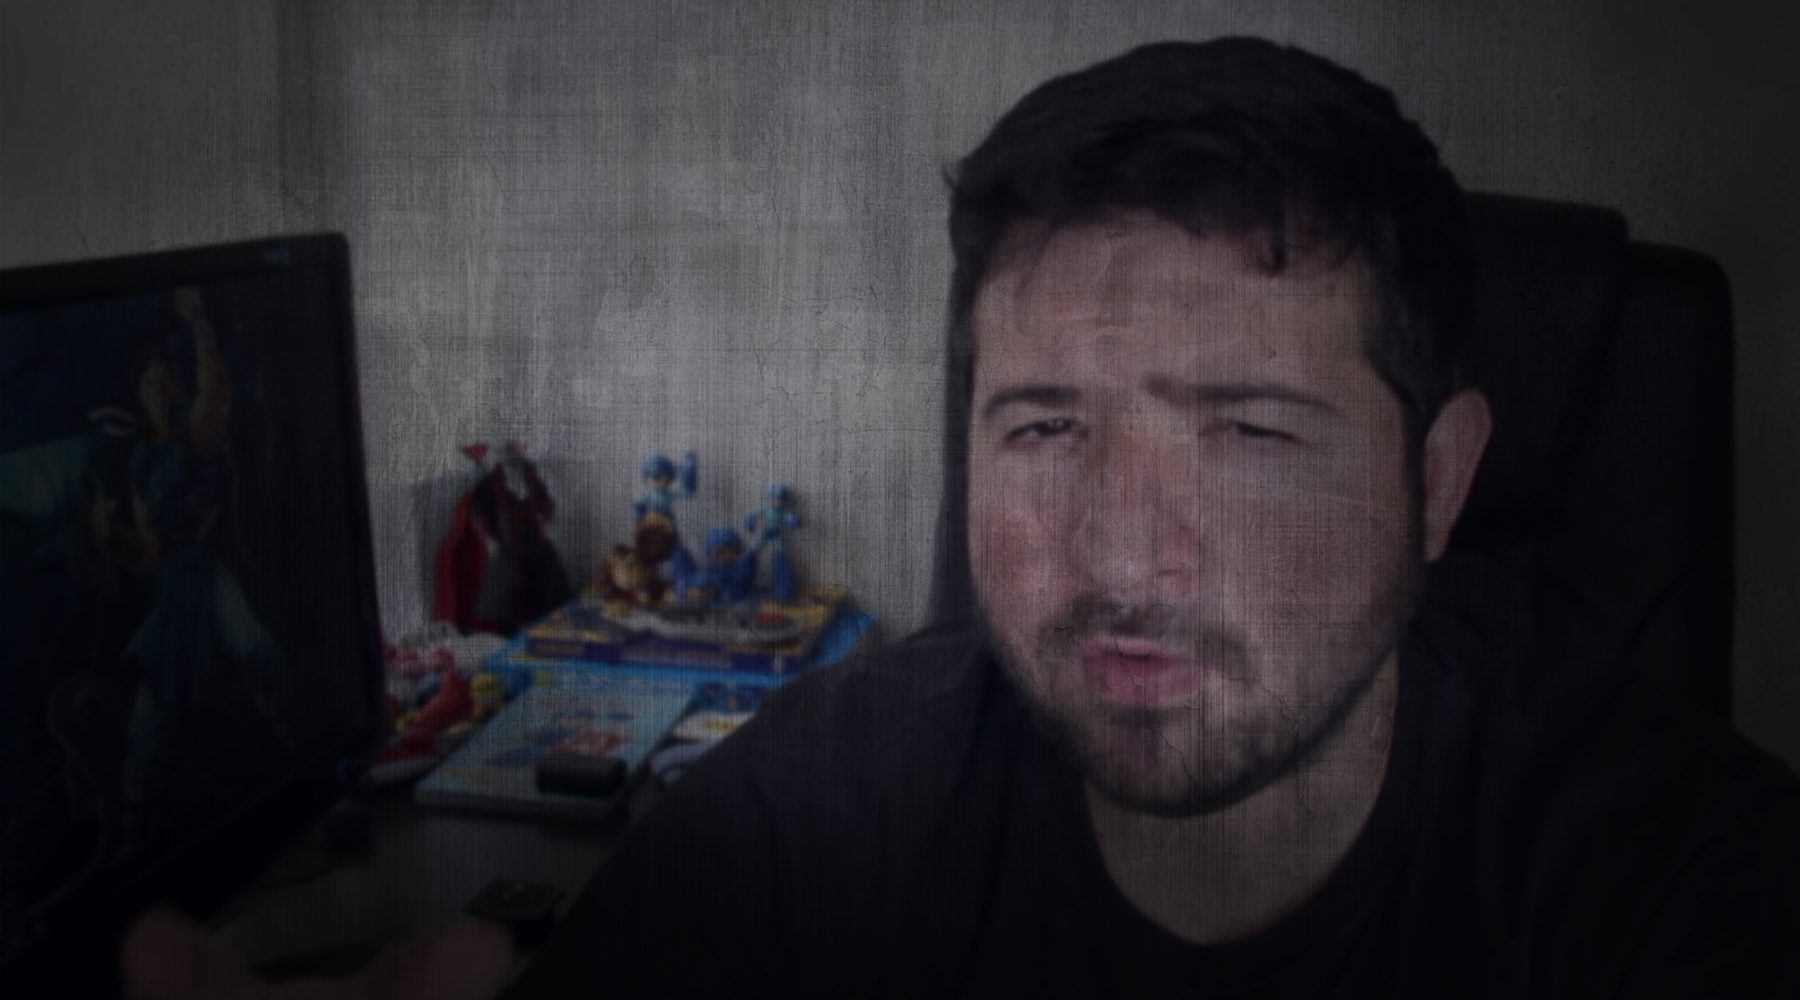
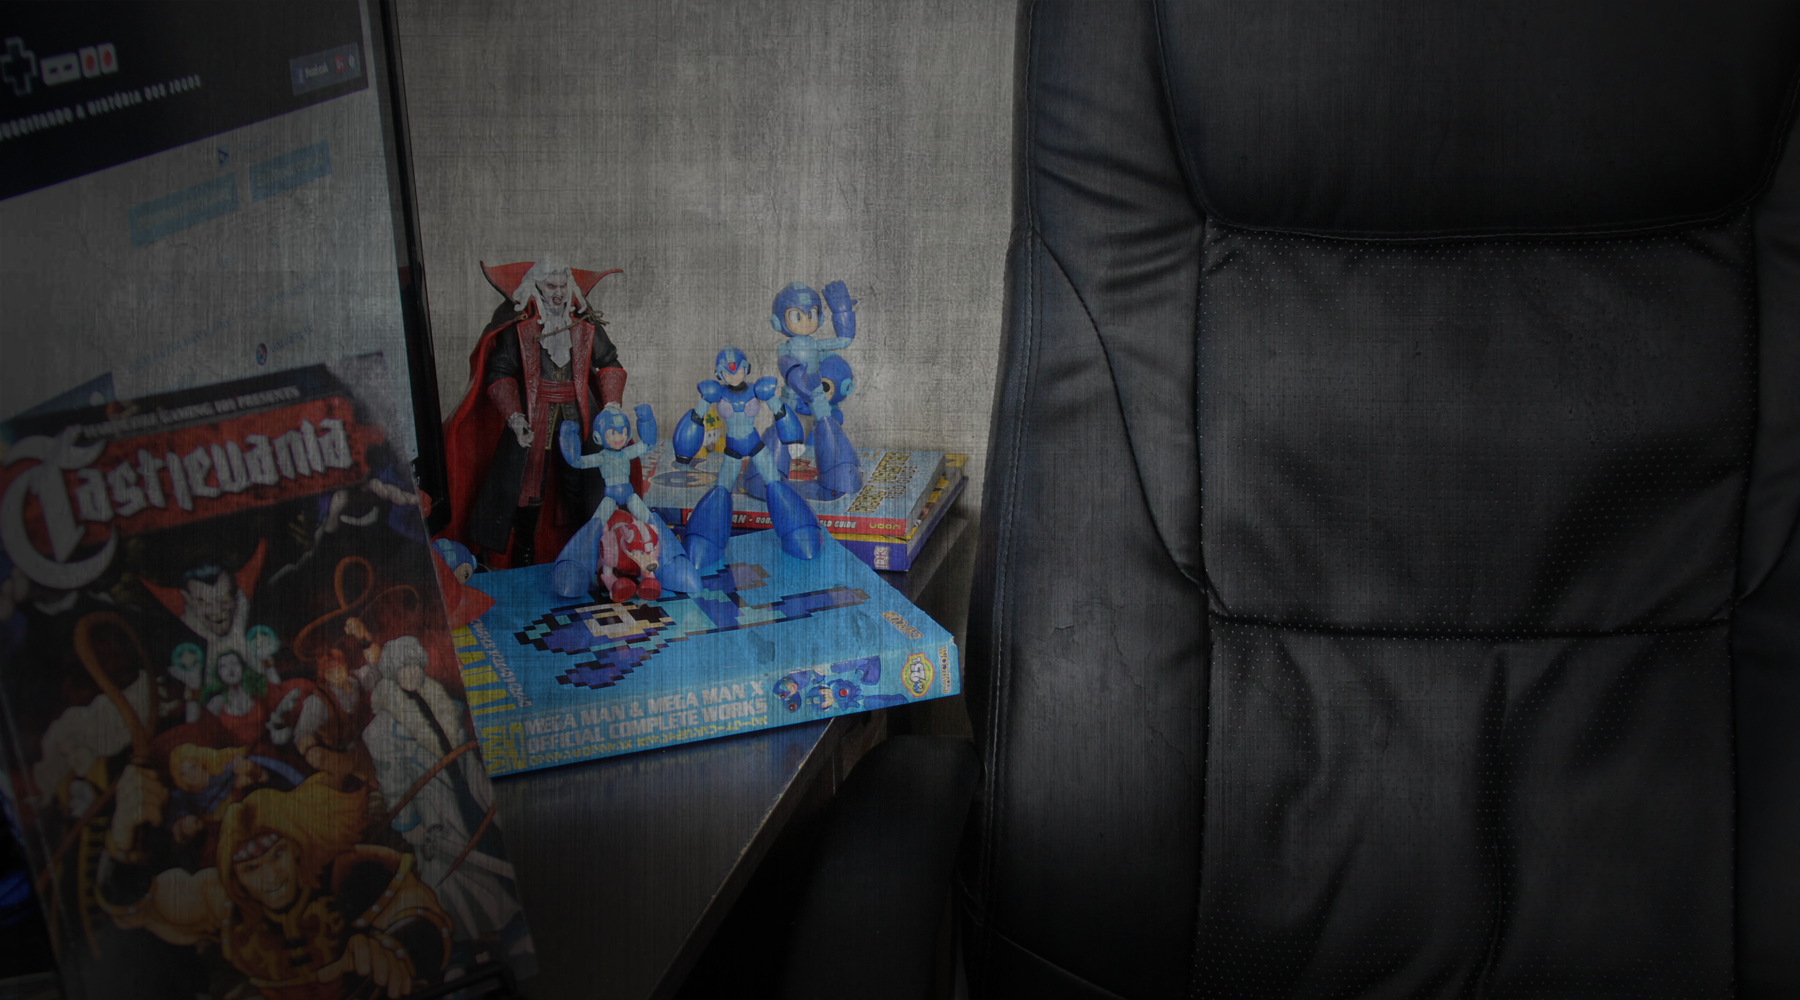
novo projeto e correções

diff --git a/index.html b/index.html
@@ -120,9 +120,9 @@
         <div class="container-full">
             <div class="card load">
                 <a href="https://www.youtube.com/watch?v=rgmxl-do95A&list=PL7q6q9eUNhEcZdBawh5EygPYbxnHtYkSR" rel="noopener" target="_blank">
-                    <img src="./img/MM5DarkMan1.png" alt="Projeto Megaman">
+                    <img src="./img/COVR_MMX.jpg" alt="Projeto Megaman">
                     <div class="text">
-                        <p>O Projeto Mega Man é um video guia de toda a franquia clássica do famosos robô da Capcom. Indo do primeiro ao décimo game e contando de referências a segredos de sua produção, É um quadro imperdível para quem é fã!</p>
+                        <p>O Projeto Mega Man é um video guia de toda a franquia clássica e série X do famoso robô da Capcom. Já são 9 temporadas da série clássica e recentemente estreando a série X, é repleto de referências a segredos de sua produção! É um quadro imperdível para quem é fã!</p>
                     </div>
                 </a>
             </div>
